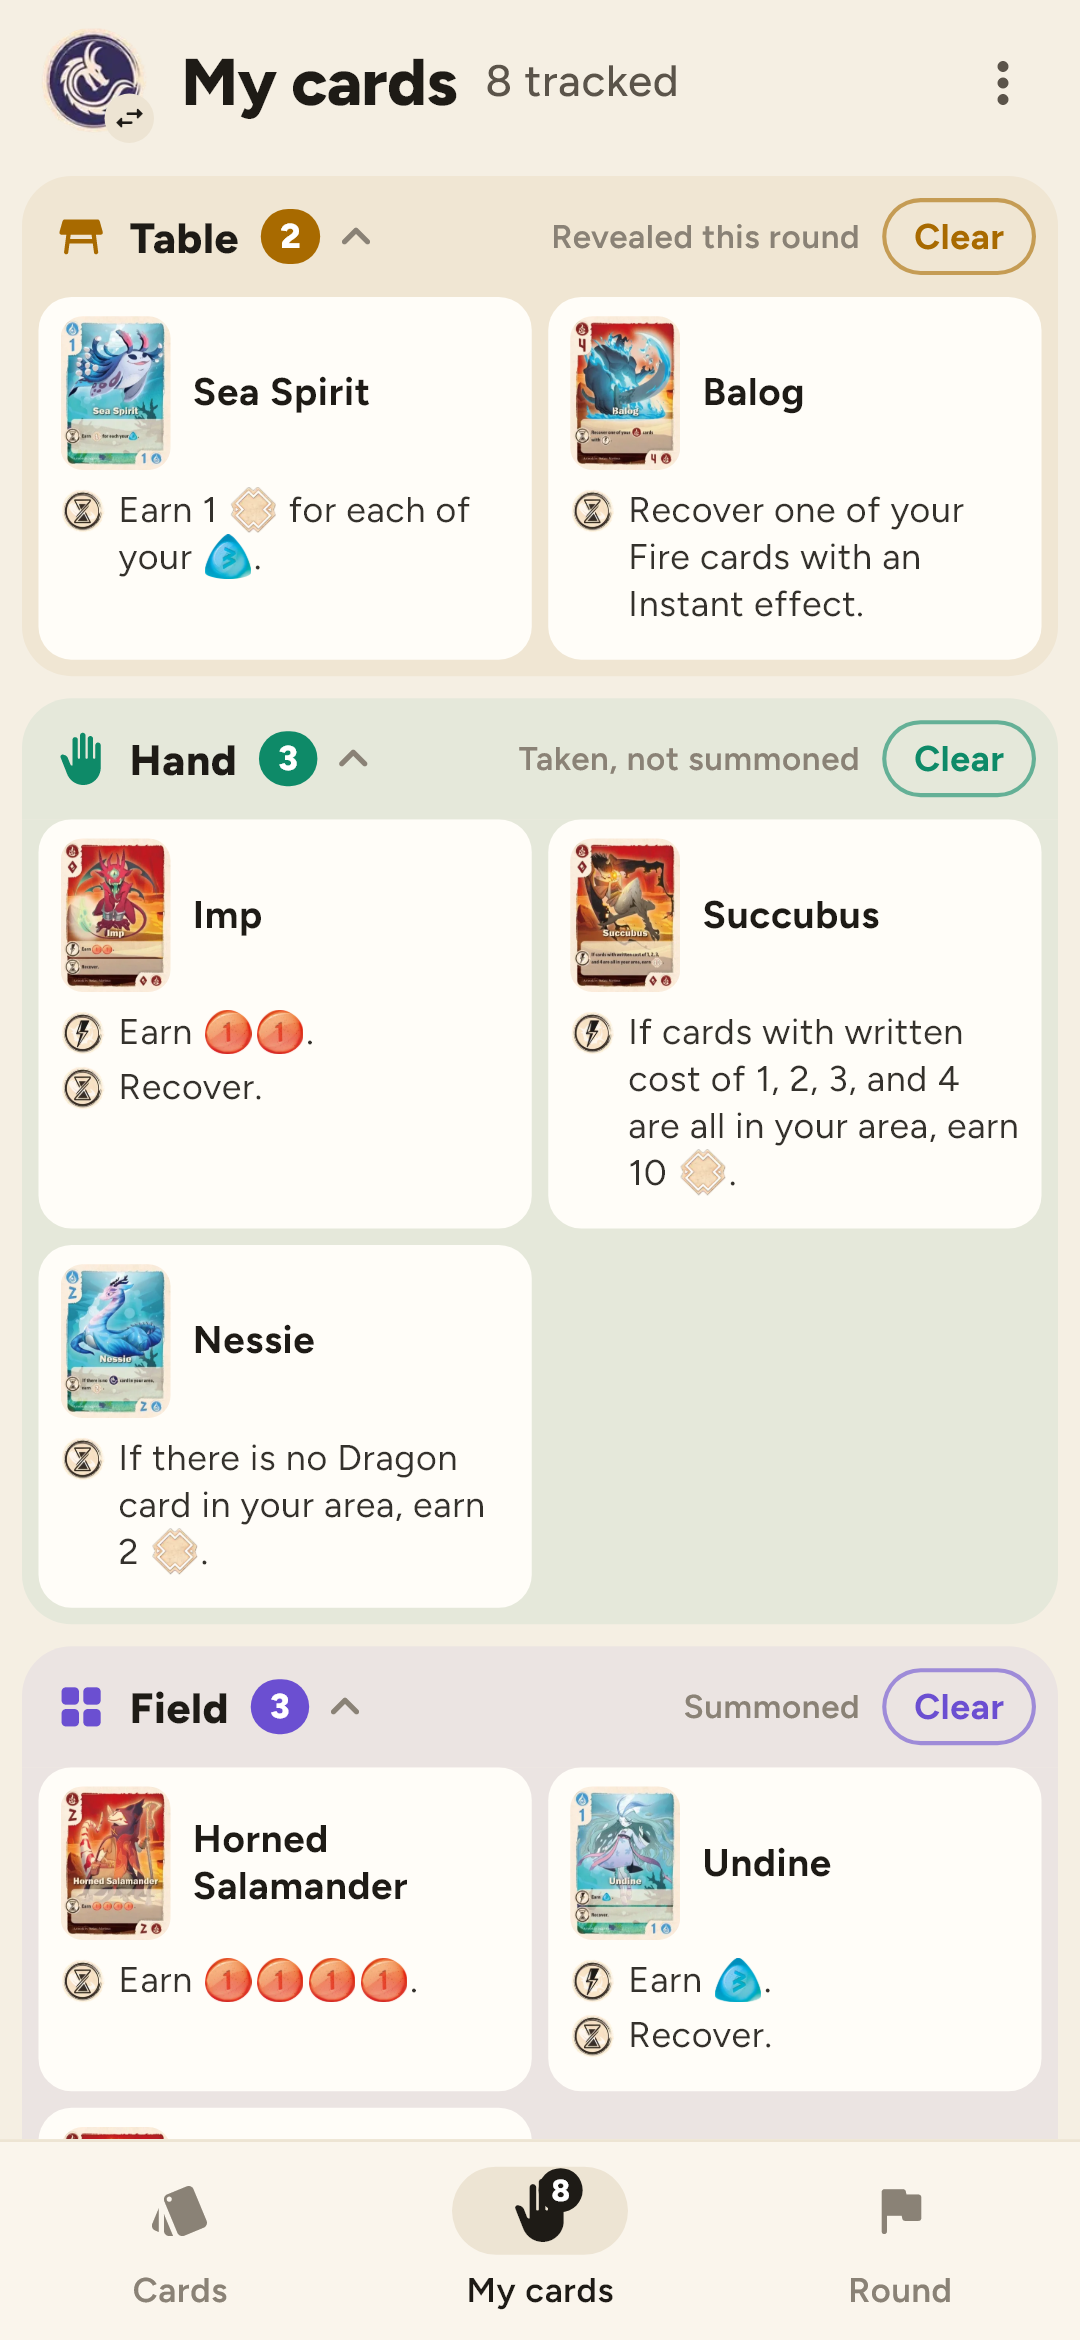
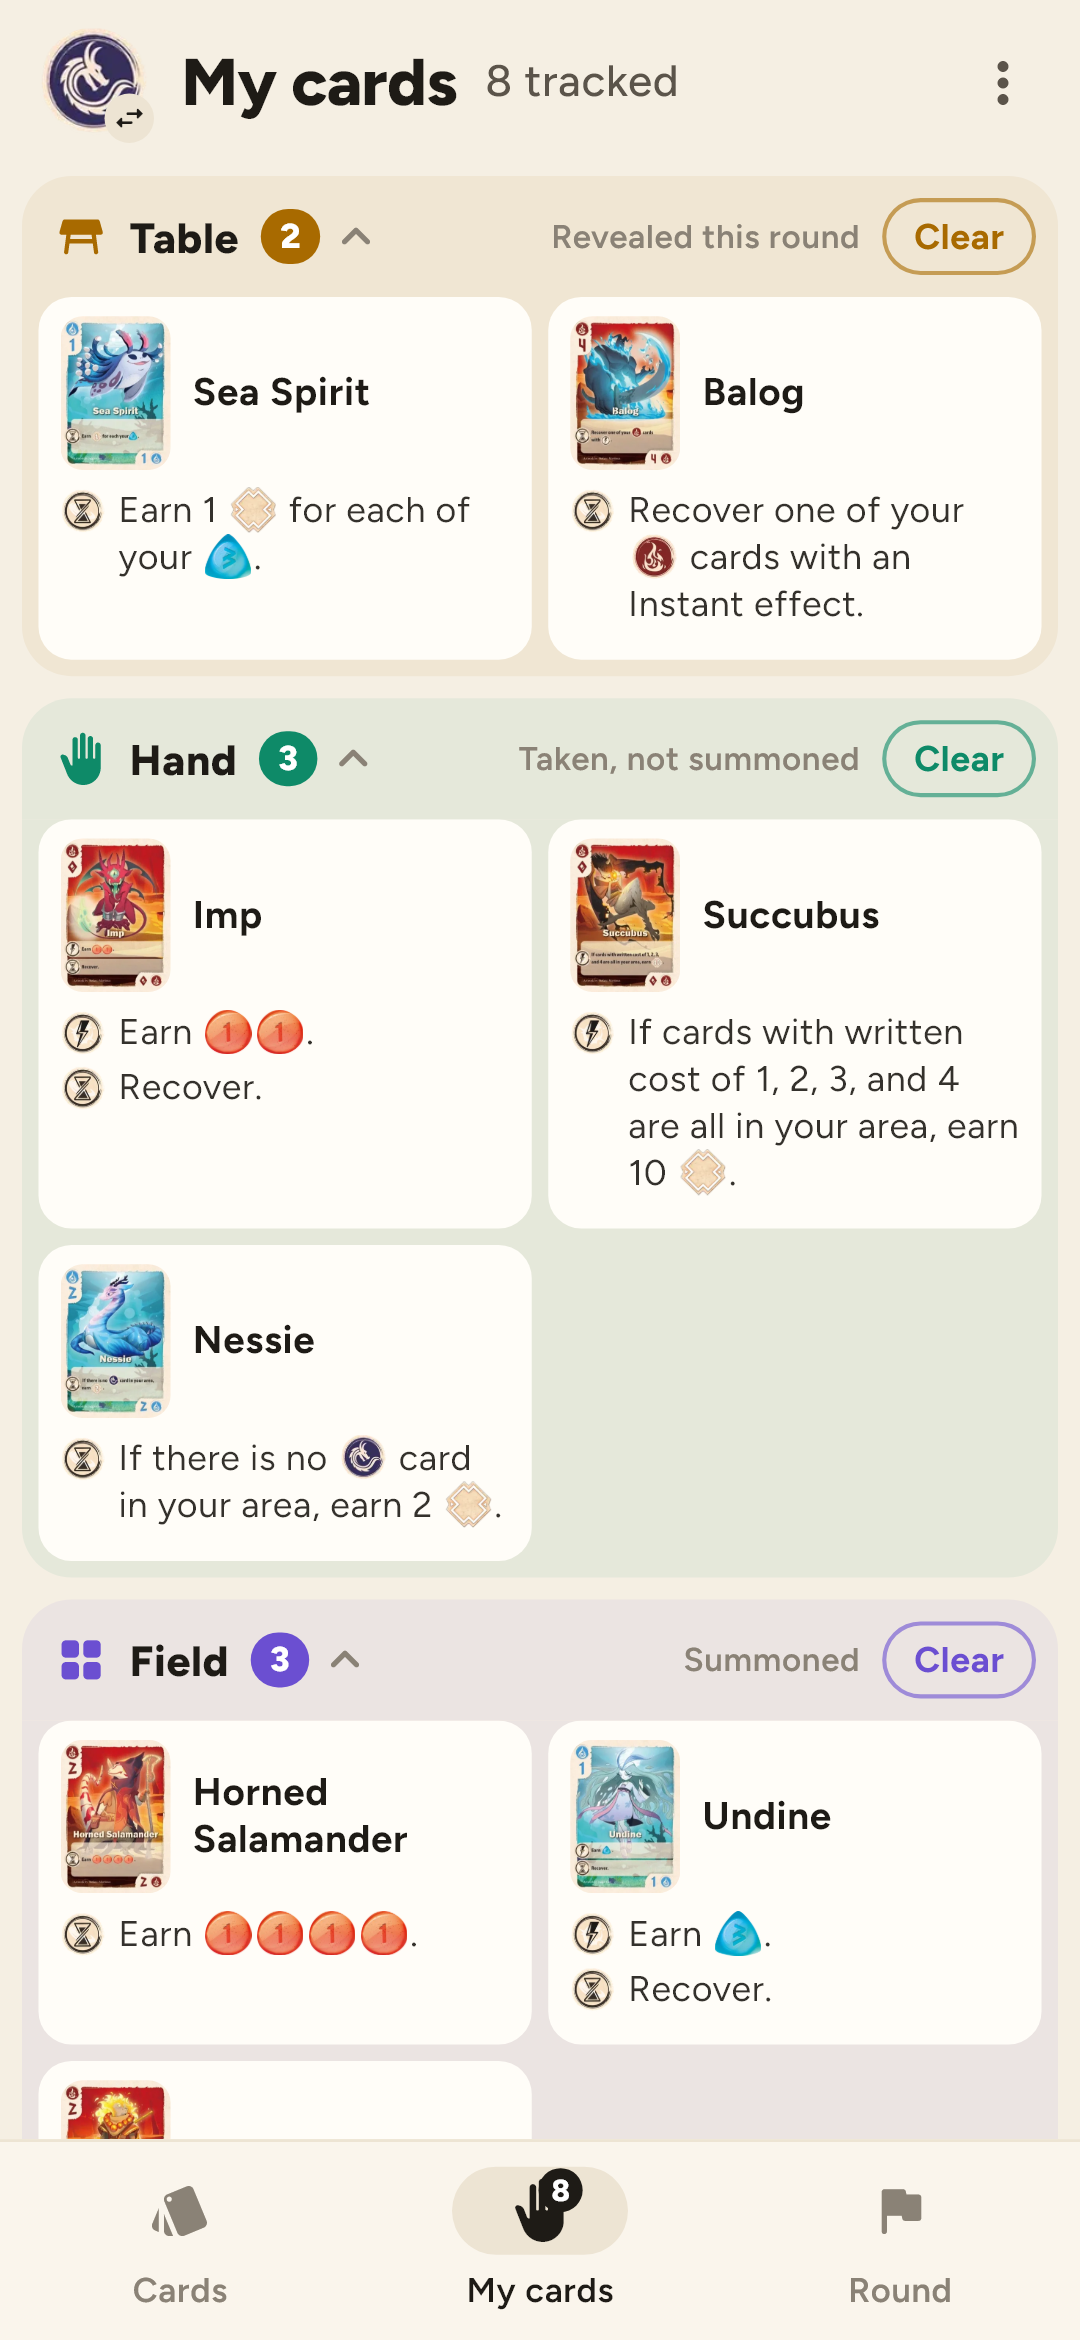
feat(vale): smooth five printed typos, trim interactions to rulings
Sea Spirit, Genie, Mimic, Pegasus and Hippogriff read as plain English (the printed
cards carry the errors). Firefox and Rudra lose their "does not count itself" note; the
"you pay first" strategy lines leave Ember, Marina and Boulder; the stone arithmetic
leaves Rock Golem and Water Giant. 31 cards keep rulings, none over two lines.

Changed region(s): [[0.0306, 0.5927, 0.9778, 0.9359], [0.5806, 0.2184, 0.8556, 0.2496]]

diff --git a/docs/superpowers/notes/2026-10-18-vale-module-2.0.md b/docs/superpowers/notes/2026-10-18-vale-module-2.0.md
@@ -94,3 +94,13 @@ Tidal, Eternity, Valkyrie and Freyja, which were left out to keep the details sh
 
 Re-pack the module to the private repo: `dart run tool/pack.dart modules <checkout>`. Then
 push it, so phones get 2.0.0.
+
+## Owner's edits after review (same day, on master)
+
+- Five printed typos are smoothed, meaning kept: Sea Spirit "for each of your", Genie "Active
+  effects", Mimic "from the discard pile", Pegasus and Hippogriff "your cards is decreased".
+  The printed cards have the errors; the app is for reading them in English.
+- Interactions trimmed to rulings only: Firefox and Rudra ("does not count itself") removed;
+  the "You pay first, so…" strategy line dropped from Ember, Marina and Boulder; the
+  Water Giant / Hae-tae arithmetic dropped from Rock Golem and Water Giant (Hae-tae keeps it).
+  31 cards have interactions, none longer than two lines.
